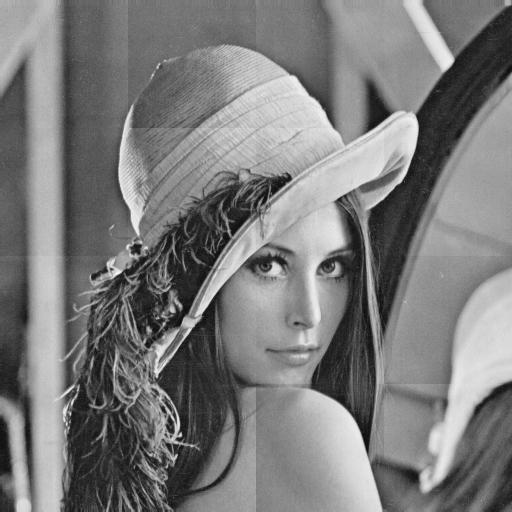
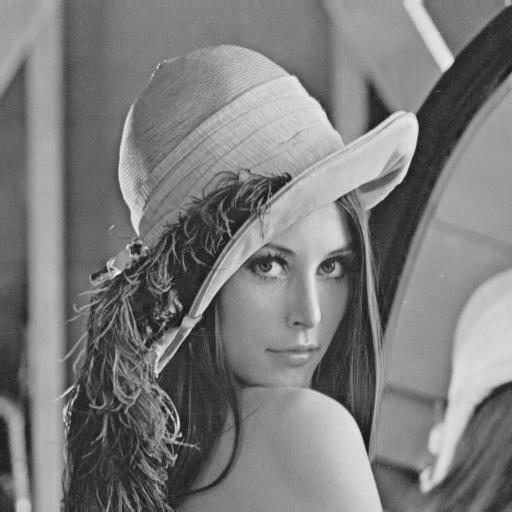
avanço clahe

diff --git a/functions/image.c b/functions/image.c
@@ -359,10 +359,12 @@ void limite_histograma(int histo[], int limite, int numB){
             histo[i] = limite; // define o limite com novo valor para o bin
        }
     }
-    int incremento = excesso / numB;// calcula o incrmeento para distribuir uniformimente 
+    int incremento = excesso / numB ;// calcula o incrmeento para distribuir uniformimente 
 
     for (int j = 0; j < numB; j++){
+        if(histo[j] !=0){// branco não entra nisso 
         histo[j] += incremento; // distribui o execesso entre os outros bins
+        }
     }
 }
 void aplicar_por_bloco(const PixelGray *pixelentrada, PixelGray *pixelsaida, int altura, int largura, int largtotal, int histograma[], int nunB){
@@ -398,14 +400,14 @@ ImageGray *clahe_gray(const ImageGray *image, int tile_width, int tile_height){
     imgclahe->dim.altura = image->dim.altura;
     imgclahe->dim.largura = image->dim.largura;
     int nunB = COR;
-    int limite = 40;// limite de clipagem
+    int limite = 1;// limite de clipagem
     int largur_atual = 0;
     int altura_atual= 0;
 
     // intera sobre cada bloco 
-    for (int i = 0; i < image->dim.altura; i+=tile_height){
-        for (int j = 0; j < image->dim.altura; j+= tile_width){
-
+    for (int i = 0; i < image->dim.altura; i+=tile_height ){
+        for (int j = 0; j < image->dim.altura; j+= tile_width ){
+           
             if(i + tile_width > image->dim.largura){
                 largur_atual = image->dim.largura-i;
             }else{
@@ -427,6 +429,7 @@ ImageGray *clahe_gray(const ImageGray *image, int tile_width, int tile_height){
         }
         
     }
+    
    return imgclahe;
 
 }

diff --git a/main.c b/main.c
@@ -3,7 +3,6 @@
 
 #include "./functions/image.c"
 
-
 int main(){
     FILE *arq; 
     arq = fopen("../utils/input_image_example_Gray.txt","r");
@@ -15,13 +14,13 @@ int main(){
     if(!arq2){
         printf("erro abrir arquivo\n");
     }
+     
     ImageGray *imgclahe = create_image_gray(arq);
     if(imgclahe == NULL){
         printf("erro ao criar imagem cinza\n");
     }
-
-    
- 
+    arq = fopen("../criar/lulut.txt", "w");
+    criaTXTImagemGray(arq, imgclahe);
    int tile_width = 128;
    int tile_height = 128;
     ImageGray *imagemclahe = clahe_gray(imgclahe,tile_width,tile_height);
@@ -29,12 +28,9 @@ int main(){
         printf("erro ao criar imagem clahe cinza\n");
     }
     arq = fopen("../criar/lulu.txt", "w");
-   criaTXTImagemGray(arq, imagemclahe);
+    criaTXTImagemGray(arq, imagemclahe);
    
-    
-    // mostrar_imagem_RGB(imageblu);
-    // free_image_rgb(imageblu);
-    // free_image_rgb(imagemrgbblur);
+
     return 0;
    
 

diff --git a/criar/converteTXT.py b/criar/converteTXT.py
@@ -35,4 +35,5 @@ def transformaImagemTXT(text_path,out_path):
             arquivo.write('\n')
 
 # transformaImagemTXT('nagant.jpg','nagant.txt')
-txt_to_jpg('lulu.txt','lena.jpg')
+txt_to_jpg('lulut.txt','lena.jpg')
+txt_to_jpg('lulu.txt','lena2.jpg')
